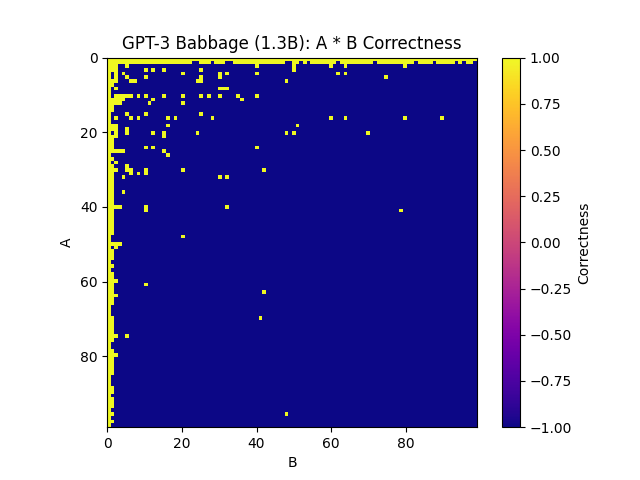
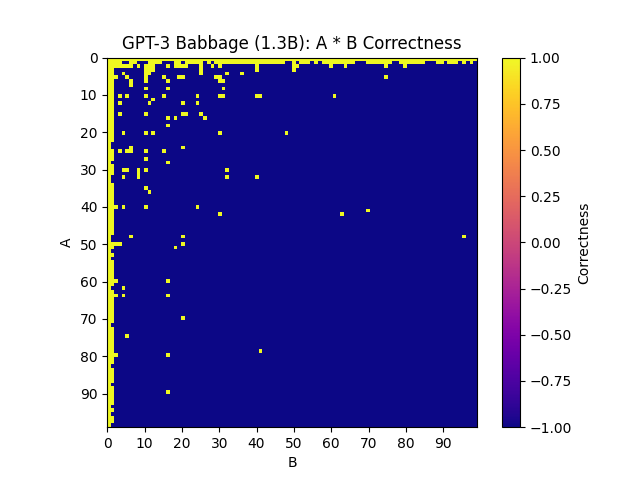
Correct the direction of the plots

diff --git a/analyze_data.py b/analyze_data.py
@@ -42,7 +42,7 @@ def plot_heatmap(filename):
             completion_numeric = re.sub('[^0-9]', '', row[2])
             completion = int(completion_numeric) if completion_numeric != '' else 0
             correct = a * b  # Calculate the correct solution by multiplying a and b
-            correctness_grid[b][a] = 1 if completion == correct else -1
+            correctness_grid[a][b] = 1 if completion == correct else -1
 
             # Calculate the number of digits that the completion is off by
             digits_off = abs(len(str(completion)) - len(str(correct)))
@@ -51,7 +51,7 @@ def plot_heatmap(filename):
             elif completion != correct:
                 digits_off += sum([1 for c1, c2 in zip(str(completion), str(correct)) if c1 != c2])
 
-            digits_off_grid[b][a] = digits_off
+            digits_off_grid[a][b] = digits_off
 
     # Create a correctness heatmap using matplotlib
     plt.clf()
@@ -59,6 +59,8 @@ def plot_heatmap(filename):
     plt.colorbar(label='Correctness')
     plt.xlabel('B')
     plt.ylabel('A')
+    plt.xticks(range(0, 100, 10))
+    plt.yticks(range(0, 100, 10))
     plt.title(f'{model_name}: A * B Correctness')
     plt.savefig(f'plots/correctness {model_name}.png')
     # plt.show()
